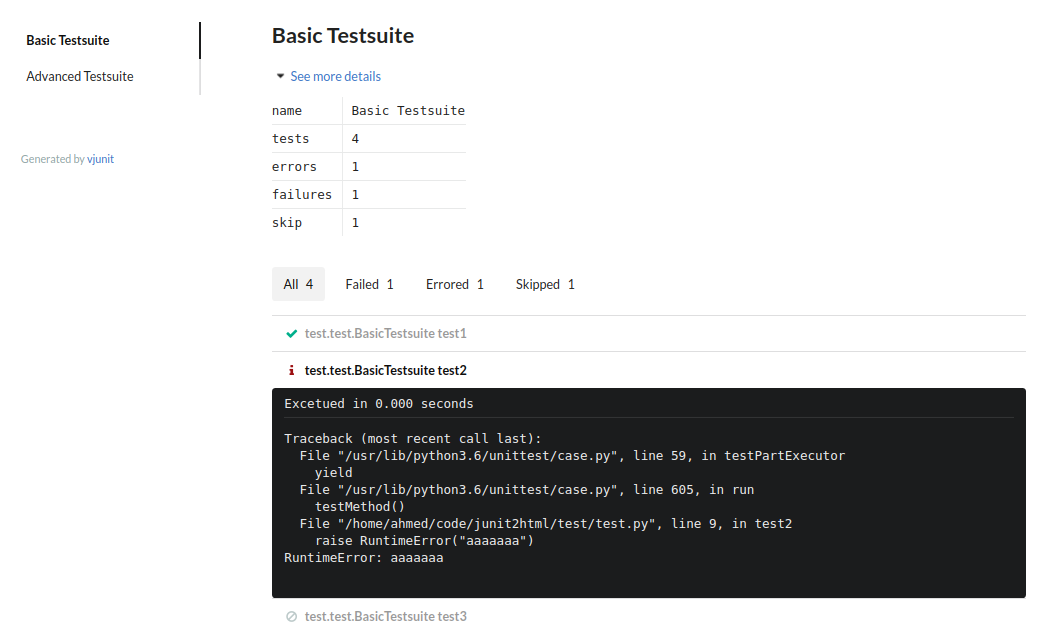
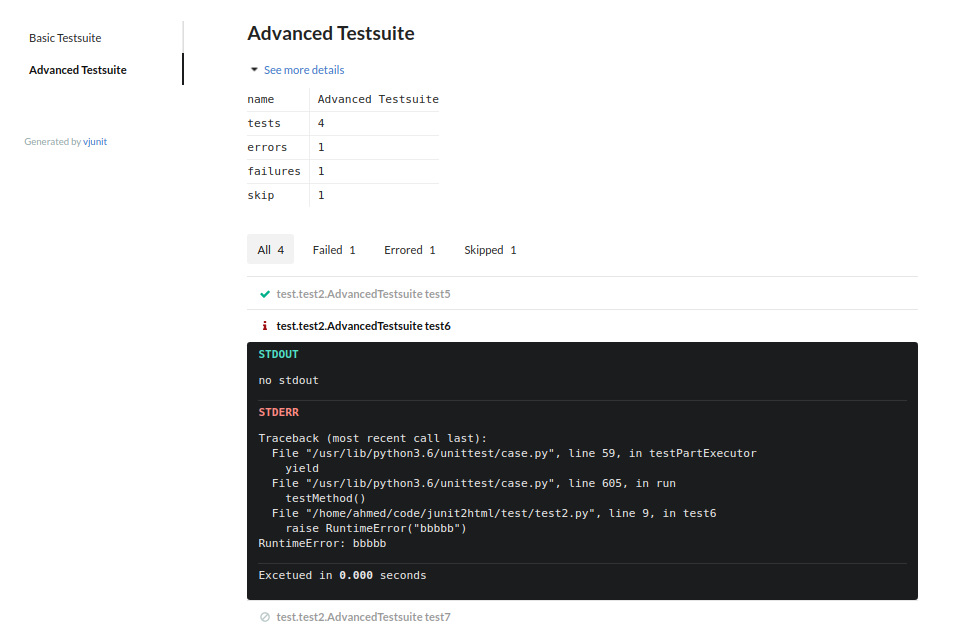
catch stdout

diff --git a/vjunit/template.html b/vjunit/template.html
@@ -52,17 +52,20 @@
         {% endif %}
 
             <div class="ui stackable grid">
-                <div class="four wide column">
-                    <div class="ui secondary vertical pointing menu">
-                        {% for testsuite in testsuites %}
-                            <a class="{{ 'active' if loop.index == 1 }} item" data-tab="testsuite.{{loop.index}}">{{testsuite.summary.name}}</a>
-                        {% endfor %}
-                    </div><br><br>
-                     <div class="footer">
-                        <p style="font-size:12px; color:#95A5A6">Generated by <a href="https://github.com/ahelsayd/vjunit">vjunit</a></p>
+
+                {% if testsuites|length > 1%}
+                    <div class="four wide column">
+                        <div class="ui secondary vertical pointing menu">
+                            {% for testsuite in testsuites %}
+                                <a class="{{ 'active' if loop.index == 1 }} item" data-tab="testsuite.{{loop.index}}">{{testsuite.summary.name}}</a>
+                            {% endfor %}
+                        </div><br><br>
+                        <div class="footer">
+                            <p style="font-size:12px; color:#95A5A6">Generated by <a href="https://github.com/ahelsayd/vjunit">vjunit</a></p>
+                        </div>
                     </div>
-                </div>
-                <div class="twelve wide stretched column">
+                {% endif %}
+                <div class="{{'twelve' if testsuites|length > 1 else 'sixteen'}} wide stretched column">
                     {% for testsuite in testsuites %}
 
                         <div class="ui tab {{ 'active' if loop.index == 1 }}" data-tab="testsuite.{{loop.index}}">
@@ -100,10 +103,16 @@
                                         <div class="title">
                                             <i class="{{testcase.status}} icon"></i> {{testcase.classname}} {{testcase.name}}
                                         </div>
-                                        <div class="ui inverted segment content">
-                                            <code>Excetued in {{testcase.time}} seconds</code>
+                                        <div class="ui inverted segment content" style="font-family:monospace">
+                                            <strong style="color:#76D7C4">STDOUT</strong><br>
+                                            <pre><code>{{testcase.stdout or "no stdout"}}</code></pre>
                                             <div class="ui divider"></div>
-                                            <pre><code>{{testcase.text}}</code></pre>
+                                            
+                                            <strong style="color:#F1948A">STDERR</strong><br>
+                                            <pre><code>{{testcase.text or "no sterr"}}</code></pre>
+                                            
+                                            <div class="ui divider"></div>
+                                            Excetued in <strong> {{testcase.time}} </strong> seconds
                                         </div>
                                     </div>
                                 {% endfor %}

diff --git a/vjunit/vjunit.py b/vjunit/vjunit.py
@@ -31,14 +31,15 @@ class VJunit(object):
                 _testcase = testcase.attrib
                 children = testcase.getchildren()
                 if children:
+                    stdout = []
                     for child in children:
                         if child.tag == "system-out":
-                            continue
-                        _testcase["status"] = child.tag
-                        _testcase["text"] = child.text
-                        break
+                            stdout.append(child.text)
+                        else:
+                            _testcase["status"] = child.tag
+                            _testcase["text"] = child.text
                     else:
-                        continue
+                        _testcase["stdout"] = "\n".join(stdout)
                 else:
                     _testcase["status"] = "success"
 

diff --git a/setup.py b/setup.py
@@ -6,7 +6,7 @@ with open("README.md", "r") as fh:
 
 setup(
     name="vjunit",
-    version="0.3",
+    version="0.4",
     description="Generate html file from junit reports",
     long_description=long_description,
     long_description_content_type="text/markdown",
